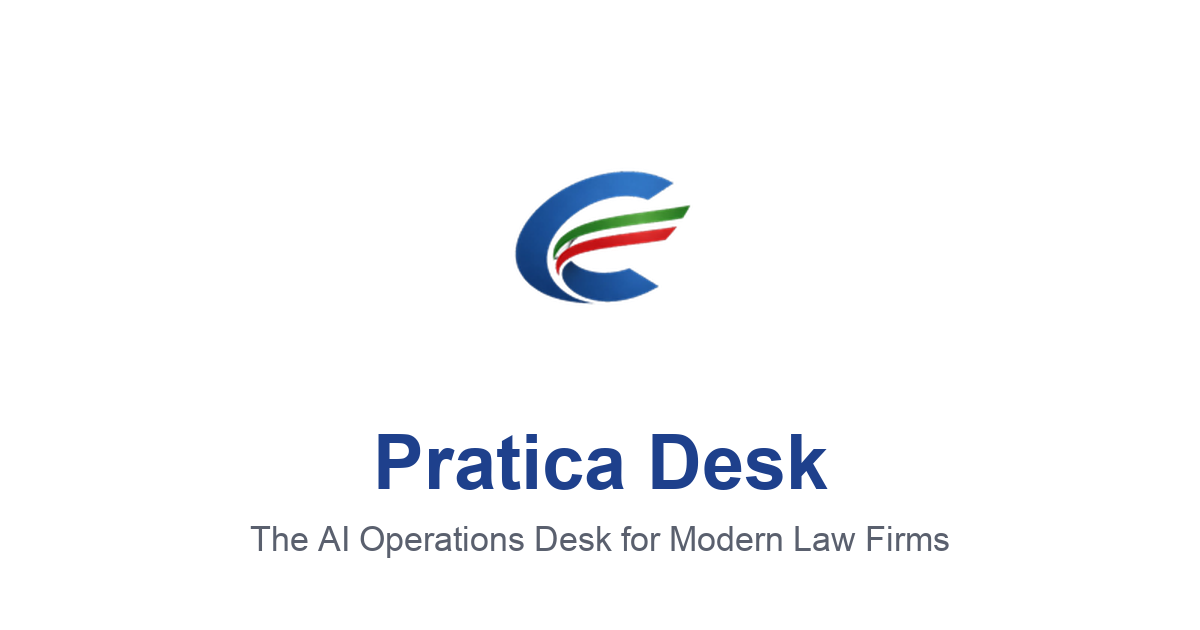
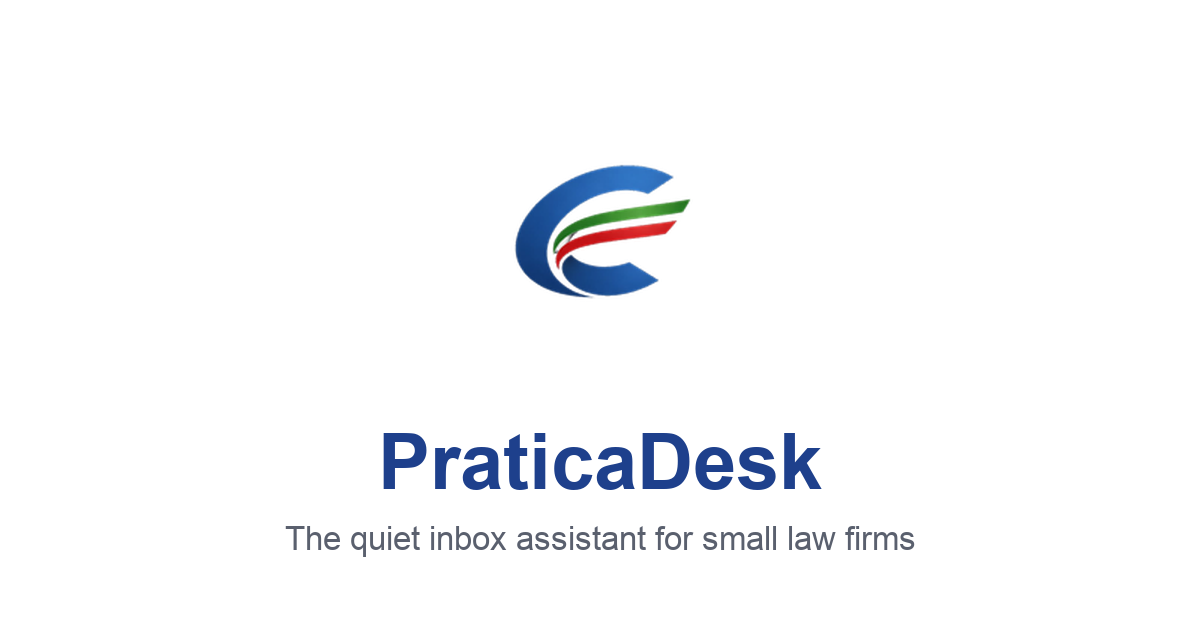
Audit: remove false claims, drop altitude to 'quiet inbox assistant'
- Tech wall: replace false stack (Supabase/OpenAI/Docker/GitHub Actions/M365) with
  honest sentence (Google Cloud + Anthropic Claude; no client mail stored)
- Integrations: 'Microsoft 365 — not supported' (was 'on the roadmap')
- Hero/metadata/footer: 'AI Operations Desk/platform' -> 'the quiet inbox assistant
  for small law firms'; honest capability copy
- Roadmap: Morning Brief = Live, everything else Planned, no links, no dates
- Delete /workflow-automation + /solutions pages + components (intake/task-routing/
  practice-area over-claims); remove from nav, footer, sitemap
- Naming: 'Pratica Desk' -> 'PraticaDesk' (one word) everywhere incl. manifest + OG
- Footer: 'PraticaDesk is a product of Crastu LLC' (Crastu logo unchanged)
- case-studies: 'calendar, inbox, and matters' -> 'calendar and inbox'

Changed region(s): [[0.3083, 0.6635, 0.7092, 0.7841], [0.4317, 0.2413, 0.5858, 0.4825], [0.2158, 0.8143, 0.8017, 0.8746]]

diff --git a/pratica-desk-web/components/technology.tsx b/pratica-desk-web/components/technology.tsx
@@ -1,20 +1,4 @@
-import { Reveal } from "@/components/reveal";
 import { SectionHeading } from "@/components/section-heading";
-
-const stack: { name: string; tag?: string }[] = [
-  { name: "Next.js" },
-  { name: "FastAPI" },
-  { name: "Supabase / PostgreSQL" },
-  { name: "Google Cloud Run" },
-  { name: "Vercel" },
-  { name: "Cloudflare" },
-  { name: "Google Workspace APIs" },
-  { name: "Microsoft 365", tag: "Roadmap" },
-  { name: "Anthropic Claude" },
-  { name: "OpenAI" },
-  { name: "Docker" },
-  { name: "GitHub Actions" },
-];
 
 export function Technology() {
   return (
@@ -28,25 +12,8 @@ export function Technology() {
               <span className="font-serif font-normal italic">firms can trust.</span>
             </>
           }
-          lede="No exotic stack for its own sake — established, auditable infrastructure, chosen for reliability and security."
+          lede="Runs on Google Cloud with Anthropic Claude. No client mail is stored. Full subprocessor list on request."
         />
-
-        <div className="mt-14 grid grid-cols-2 gap-4 sm:grid-cols-3 lg:grid-cols-4">
-          {stack.map((t, i) => (
-            <Reveal
-              key={t.name}
-              delay={i * 0.03}
-              className="flex h-24 flex-col items-center justify-center gap-1.5 rounded-xl border border-border bg-card px-3 text-center shadow-sm"
-            >
-              <span className="text-[14px] font-medium">{t.name}</span>
-              {t.tag ? (
-                <span className="rounded-full border border-border px-2 py-0.5 font-mono text-[9px] uppercase tracking-wider text-muted-foreground">
-                  {t.tag}
-                </span>
-              ) : null}
-            </Reveal>
-          ))}
-        </div>
       </div>
     </section>
   );

diff --git a/pratica-desk-web/components/hero.tsx b/pratica-desk-web/components/hero.tsx
@@ -28,27 +28,33 @@ export function Hero() {
           href="#roadmap"
           className="mb-7 inline-flex items-center gap-2 rounded-full border border-border bg-card px-3.5 py-1.5 text-[12.5px] text-muted-foreground shadow-sm transition-colors hover:text-foreground"
         >
-          Confidential inbox triage for boutique law firms.
+          Confidential inbox triage for small law firms.
           <ArrowRight className="size-3" />
         </motion.a>
 
         <motion.h1
           {...rise(0.06)}
-          className="max-w-4xl text-balance text-5xl font-semibold leading-[1.02] tracking-[-0.03em] sm:text-[68px]"
+          className="max-w-4xl text-balance text-6xl font-semibold leading-[1.02] tracking-[-0.03em] sm:text-[72px]"
         >
-          The AI Operations Desk for{" "}
-          <span className="font-serif font-normal italic tracking-normal">
-            modern law firms.
-          </span>
+          PraticaDesk
         </motion.h1>
 
         <motion.p
-          {...rise(0.14)}
+          {...rise(0.1)}
+          className="mt-5 max-w-2xl text-balance text-2xl leading-snug sm:text-3xl"
+        >
+          <span className="font-serif font-normal italic">
+            The quiet inbox assistant for small law firms.
+          </span>
+        </motion.p>
+
+        <motion.p
+          {...rise(0.16)}
           className="mt-6 max-w-2xl text-pretty text-lg leading-relaxed text-muted-foreground"
         >
-          Pratica Desk is an intelligence layer that reads across the tools your
-          firm already uses — and hands each attorney one evidence-backed brief
-          before the day begins.
+          PraticaDesk reviews your firm inbox, prepares a morning brief, flags
+          unpaid-invoice follow-ups, and keeps a simple activity record — without
+          storing client mail.
         </motion.p>
 
         <motion.div {...rise(0.22)} className="mt-9 flex flex-wrap items-center justify-center gap-3">

diff --git a/pratica-desk-web/app/layout.tsx b/pratica-desk-web/app/layout.tsx
@@ -31,20 +31,19 @@ const siteUrl = "https://praticadesk.com";
 export const metadata: Metadata = {
   metadataBase: new URL(siteUrl),
   title: {
-    default: "Pratica Desk — The AI Operations Desk for Modern Law Firms",
-    template: "%s · Pratica Desk",
+    default: "PraticaDesk — the quiet inbox assistant for small law firms",
+    template: "%s · PraticaDesk",
   },
   description:
-    "Pratica Desk is an intelligence layer that reads across the tools your firm already uses and hands each attorney one evidence-backed brief every morning. AI assists. Attorneys decide.",
+    "PraticaDesk reviews your firm inbox, prepares a morning brief, flags unpaid-invoice follow-ups, and keeps a simple activity record — without storing client mail.",
   keywords: [
     "legal AI",
-    "law firm software",
-    "AI operations desk",
+    "law firm inbox assistant",
     "morning brief",
     "legal operations",
-    "workflow automation for law firms",
+    "small law firms",
   ],
-  authors: [{ name: "Pratica Desk" }],
+  authors: [{ name: "PraticaDesk" }],
   manifest: "/site.webmanifest",
   icons: {
     icon: [
@@ -55,20 +54,20 @@ export const metadata: Metadata = {
     apple: [{ url: "/apple-touch-icon.png", sizes: "180x180" }],
   },
   openGraph: {
-    title: "Pratica Desk — The AI Operations Desk for Modern Law Firms",
+    title: "PraticaDesk — the quiet inbox assistant for small law firms",
     description:
-      "One intelligent workspace. Every morning. Every matter. An intelligence layer on top of the tools your firm already uses.",
+      "Reviews your firm inbox, prepares a morning brief, flags unpaid-invoice follow-ups, and keeps a simple activity record — without storing client mail.",
     url: siteUrl,
-    siteName: "Pratica Desk",
+    siteName: "PraticaDesk",
     type: "website",
     images: [
-      { url: "/og-image.png", width: 1200, height: 630, alt: "Pratica Desk" },
+      { url: "/og-image.png", width: 1200, height: 630, alt: "PraticaDesk" },
     ],
   },
   twitter: {
     card: "summary_large_image",
-    title: "Pratica Desk",
-    description: "The AI Operations Desk for Modern Law Firms.",
+    title: "PraticaDesk",
+    description: "The quiet inbox assistant for small law firms.",
     images: ["/og-image.png"],
   },
 };

diff --git a/pratica-desk-web/components/site-footer.tsx b/pratica-desk-web/components/site-footer.tsx
@@ -6,9 +6,8 @@ const columns = [
   {
     heading: "Product",
     links: [
-      { label: "Solutions", href: "/solutions" },
       { label: "Legal AI", href: "/legal-ai" },
-      { label: "Workflow Automation", href: "/workflow-automation" },
+      { label: "Roadmap", href: "/#roadmap" },
       { label: "Security", href: "/#security" },
     ],
   },
@@ -38,11 +37,11 @@ export function SiteFooter() {
           <div>
             <span className="inline-flex items-center gap-2.5 text-white">
               <PraticaDeskMark />
-              <span className="text-[17px] font-semibold tracking-tight">Pratica Desk</span>
+              <span className="text-[17px] font-semibold tracking-tight">PraticaDesk</span>
             </span>
             <p className="mt-4 max-w-xs text-sm leading-relaxed text-zinc-400">
-              The AI Operations Desk for Modern Law Firms. AI assists. Attorneys
-              decide.
+              The quiet inbox assistant for small law firms. AI assists.
+              Attorneys decide.
             </p>
             <a
               href="mailto:[email redacted]"
@@ -53,7 +52,7 @@ export function SiteFooter() {
             <div className="mt-5 inline-flex items-center gap-2">
               {/* eslint-disable-next-line @next/next/no-img-element -- static footer credit, intentionally plain <img> */}
               <img src="/logo/crastu.png" alt="Crastu LLC" height={20} className="rounded-sm" />
-              <span className="text-[12px] text-zinc-500">A product of Crastu LLC</span>
+              <span className="text-[12px] text-zinc-500">PraticaDesk is a product of Crastu LLC.</span>
             </div>
           </div>
 
@@ -80,7 +79,7 @@ export function SiteFooter() {
 
         <div className="mt-14 flex flex-col gap-3 border-t border-zinc-800 pt-6 sm:flex-row sm:items-center sm:justify-between">
           <p className="font-mono text-[11px] tracking-wide text-zinc-500">
-            © {new Date().getFullYear()} Pratica Desk · A product of Crastu LLC
+            © {new Date().getFullYear()} PraticaDesk
           </p>
           <p className="text-[11px] text-zinc-600">
             Sample firm and matter data shown is fictional.

diff --git a/pratica-desk-web/components/vision.tsx b/pratica-desk-web/components/vision.tsx
@@ -3,7 +3,7 @@ import { Reveal } from "@/components/reveal";
 import { SectionHeading } from "@/components/section-heading";
 
 const modules = [
-  { name: "Morning Brief", body: "One evidence-backed brief every morning.", status: "First" },
+  { name: "Morning Brief", body: "One evidence-backed brief every morning.", status: "Live" },
   { name: "Inbox Intelligence", body: "Decisions separated from noise.", status: "Planned" },
   { name: "Document Intelligence", body: "Find the right draft, and what changed.", status: "Planned" },
   { name: "Workflow Automation", body: "Routine steps, proposed for approval.", status: "Planned" },
@@ -23,11 +23,11 @@ export function Vision() {
           eyebrow="Roadmap"
           title={
             <>
-              One module today.{" "}
-              <span className="font-serif font-normal italic">A platform tomorrow.</span>
+              One tool today.{" "}
+              <span className="font-serif font-normal italic">More is planned.</span>
             </>
           }
-          lede="The Morning Brief is module one. Every module ahead reuses the same read-only, evidence-backed, attorney-approved foundation — the beginning of an AI operations platform for the whole firm."
+          lede="The Morning Brief is live today. Everything below is planned — built on the same read-only, evidence-backed, attorney-approved foundation. No dates promised."
         />
 
         <div className="mt-14 grid gap-4 sm:grid-cols-2 lg:grid-cols-3">
@@ -37,7 +37,7 @@ export function Vision() {
               delay={i * 0.04}
               className={cn(
                 "rounded-xl border p-5",
-                m.status === "First"
+                m.status === "Live"
                   ? "border-zinc-600 bg-zinc-900"
                   : "border-zinc-800 bg-zinc-900/50"
               )}
@@ -47,7 +47,7 @@ export function Vision() {
                 <span
                   className={cn(
                     "rounded-full border px-2.5 py-0.5 font-mono text-[9.5px] uppercase tracking-wider",
-                    m.status === "First"
+                    m.status === "Live"
                       ? "border-zinc-500 bg-white text-zinc-950"
                       : "border-zinc-700 text-zinc-500"
                   )}

diff --git a/pratica-desk-web/app/about/page.tsx b/pratica-desk-web/app/about/page.tsx
@@ -9,14 +9,14 @@ import { CtaSection } from "@/components/cta-section";
 export const metadata: Metadata = {
   title: "About",
   description:
-    "Pratica Desk is a Los Angeles-based AI workflow automation product, built for legal operations, confidentiality, and practical automation.",
+    "PraticaDesk is a Los Angeles-based inbox assistant for small law firms, built around confidentiality and one real workflow at a time.",
 };
 
 const principles = [
   {
     icon: MapPin,
     title: "Built in Los Angeles",
-    body: "Pratica Desk is built by a Los Angeles-based team focused on AI workflow automation for legal operations.",
+    body: "PraticaDesk is built by a Los Angeles-based team focused on a quiet, confidential inbox assistant for small law firms.",
   },
   {
     icon: Lock,
@@ -41,7 +41,7 @@ export default function AboutPage() {
             <span className="font-serif font-normal italic">for how law firms actually work.</span>
           </>
         }
-        lede="Pratica Desk is a product in active development — built with direct feedback from practicing attorneys and legal operations professionals, not around it."
+        lede="PraticaDesk is a product in active development — built with direct feedback from practicing attorneys and legal operations professionals, not around it."
       />
 
       <section className="border-t border-border/60 py-24 sm:py-28">
@@ -69,7 +69,7 @@ export default function AboutPage() {
           <SectionHeading
             eyebrow="Where we are today"
             title="Early, deliberately."
-            lede="Pratica Desk is currently being developed and refined with feedback from a small group of practicing attorneys and legal operations leaders. We're not claiming a customer base or results we haven't earned yet — the Morning Brief module is real and in development today, and everything after it is being built the same way: one workflow, validated with the people who'll actually rely on it."
+            lede="PraticaDesk is currently being developed and refined with feedback from a small group of practicing attorneys and legal operations leaders. We're not claiming a customer base or results we haven't earned yet — the Morning Brief module is real and in development today, and everything after it is being built the same way: one workflow, validated with the people who'll actually rely on it."
           />
         </div>
       </section>

diff --git a/pratica-desk-web/components/integrations.tsx b/pratica-desk-web/components/integrations.tsx
@@ -23,7 +23,7 @@ export function Integrations() {
               <span className="font-serif font-normal italic">you already use.</span>
             </>
           }
-          lede="No rip-and-replace. No migration. Pratica Desk sits alongside your existing systems and reads from them — you keep working exactly as you do now."
+          lede="No rip-and-replace. No migration. PraticaDesk sits alongside your existing systems and reads from them — you keep working exactly as you do now."
         />
 
         <div className="mt-14 grid gap-4 sm:grid-cols-3">
@@ -45,7 +45,7 @@ export function Integrations() {
         </div>
 
         <p className="mt-4 text-center text-[13px] text-muted-foreground">
-          Outlook / Microsoft 365 support is on the roadmap.
+          Microsoft 365 — not supported.
         </p>
 
         <Reveal delay={0.1} className="mt-6">
@@ -57,7 +57,7 @@ export function Integrations() {
             <span className="text-[13px] text-muted-foreground">read-only</span>
             <span className="h-px flex-1 bg-border" />
             <span className="rounded-md border border-foreground px-3 py-1.5 text-[13px] font-semibold">
-              Pratica Desk
+              PraticaDesk
             </span>
           </div>
         </Reveal>
@@ -78,7 +78,7 @@ export function Integrations() {
         <p className="mt-6 max-w-3xl text-[12.5px] leading-relaxed text-muted-foreground">
           Designed around the professional duties your firm already carries —
           confidentiality, supervision, and technological competence.
-          Pratica Desk gives you the written record and revocation controls to
+          PraticaDesk gives you the written record and revocation controls to
           make that determination; it does not make the compliance call for
           you.
         </p>

diff --git a/pratica-desk-web/components/product-overview.tsx b/pratica-desk-web/components/product-overview.tsx
@@ -19,9 +19,9 @@ const pillars = [
   },
   {
     icon: Workflow,
-    title: "Workflow automation",
-    body: "Routine steps proposed for approval — intake, routing, follow-ups — never executed without you.",
-    href: "/workflow-automation",
+    title: "Invoice follow-ups",
+    body: "Flags client emails tied to unpaid invoices so a partner can follow up — surfaced for you, never sent automatically.",
+    href: "#features",
   },
 ];
 
@@ -37,7 +37,7 @@ export function ProductOverview() {
               <span className="font-serif font-normal italic">it earns trust.</span>
             </>
           }
-          lede="Pratica Desk sits on top of the tools your firm already runs — reading, never acting — until an attorney says otherwise."
+          lede="PraticaDesk sits on top of the tools your firm already runs — reading, never acting — until an attorney says otherwise."
         />
 
         <div className="mt-14 grid gap-4 sm:grid-cols-3">

diff --git a/pratica-desk-web/components/logo.tsx b/pratica-desk-web/components/logo.tsx
@@ -18,15 +18,15 @@ export function PraticaDeskMark({ className }: { className?: string }) {
 export function Logo({ className }: { className?: string }) {
   return (
     <span className={cn("inline-flex items-center gap-2.5", className)}>
-      {/* Crastu parent-company "C" mark, used as the Pratica Desk brand mark. */}
+      {/* Crastu parent-company "C" mark, used as the PraticaDesk brand mark. */}
       <img
         src="/logo/crastu.png"
-        alt="Pratica Desk"
+        alt="PraticaDesk"
         width={24}
         height={24}
         className="h-[24px] w-[24px]"
       />
-      <span className="text-[17px] font-semibold tracking-tight">Pratica Desk</span>
+      <span className="text-[17px] font-semibold tracking-tight">PraticaDesk</span>
     </span>
   );
 }

diff --git a/pratica-desk-web/app/contact/page.tsx b/pratica-desk-web/app/contact/page.tsx
@@ -6,7 +6,7 @@ import { ContactForm } from "@/components/contact-form";
 export const metadata: Metadata = {
   title: "Contact",
   description:
-    "Request a conversation with the Pratica Desk team, or book time directly on Calendly.",
+    "Request a conversation with the PraticaDesk team, or book time directly on Calendly.",
 };
 
 export default function ContactPage() {
@@ -20,7 +20,7 @@ export default function ContactPage() {
             <span className="font-serif font-normal italic">your mornings.</span>
           </>
         }
-        lede="We'd rather ask than pitch. Tell us how your firm runs, and we'll show you what a morning with Pratica Desk could look like."
+        lede="We'd rather ask than pitch. Tell us how your firm runs, and we'll show you what a morning with PraticaDesk could look like."
       />
       <ContactForm />
     </>

diff --git a/pratica-desk-web/app/legal-ai/page.tsx b/pratica-desk-web/app/legal-ai/page.tsx
@@ -7,7 +7,7 @@ import { CtaSection } from "@/components/cta-section";
 export const metadata: Metadata = {
   title: "Legal AI",
   description:
-    "Pratica Desk's AI philosophy: evidence-backed recommendations, human-in-the-loop review, attorney approval, and no autonomous legal advice.",
+    "PraticaDesk's AI philosophy: evidence-backed recommendations, human-in-the-loop review, attorney approval, and no autonomous legal advice.",
 };
 
 export default function LegalAiPage() {
@@ -21,7 +21,7 @@ export default function LegalAiPage() {
             <span className="font-serif font-normal italic">Attorneys decide.</span>
           </>
         }
-        lede="Pratica Desk is built around a simple constraint: the model organizes evidence and drafts options, and a licensed attorney makes every judgment call."
+        lede="PraticaDesk is built around a simple constraint: the model organizes evidence and drafts options, and a licensed attorney makes every judgment call."
       />
       <AiPhilosophy />
       <CtaSection />

diff --git a/pratica-desk-web/components/ai-philosophy.tsx b/pratica-desk-web/components/ai-philosophy.tsx
@@ -21,7 +21,7 @@ const principles = [
   {
     icon: Ban,
     title: "No autonomous legal advice",
-    body: "Pratica Desk never interprets the law or advises a course of action. It organizes facts; attorneys make the judgment calls.",
+    body: "PraticaDesk never interprets the law or advises a course of action. It organizes facts; attorneys make the judgment calls.",
   },
   {
     icon: Lock,
@@ -66,7 +66,7 @@ export function AiPhilosophy() {
               The line we won&apos;t cross
             </p>
             <p className="mx-auto mt-3 max-w-2xl font-serif text-[26px] leading-snug">
-              Pratica Desk never gives legal advice. It surfaces evidence and options —
+              PraticaDesk never gives legal advice. It surfaces evidence and options —
               the attorney decides and acts.
             </p>
           </div>